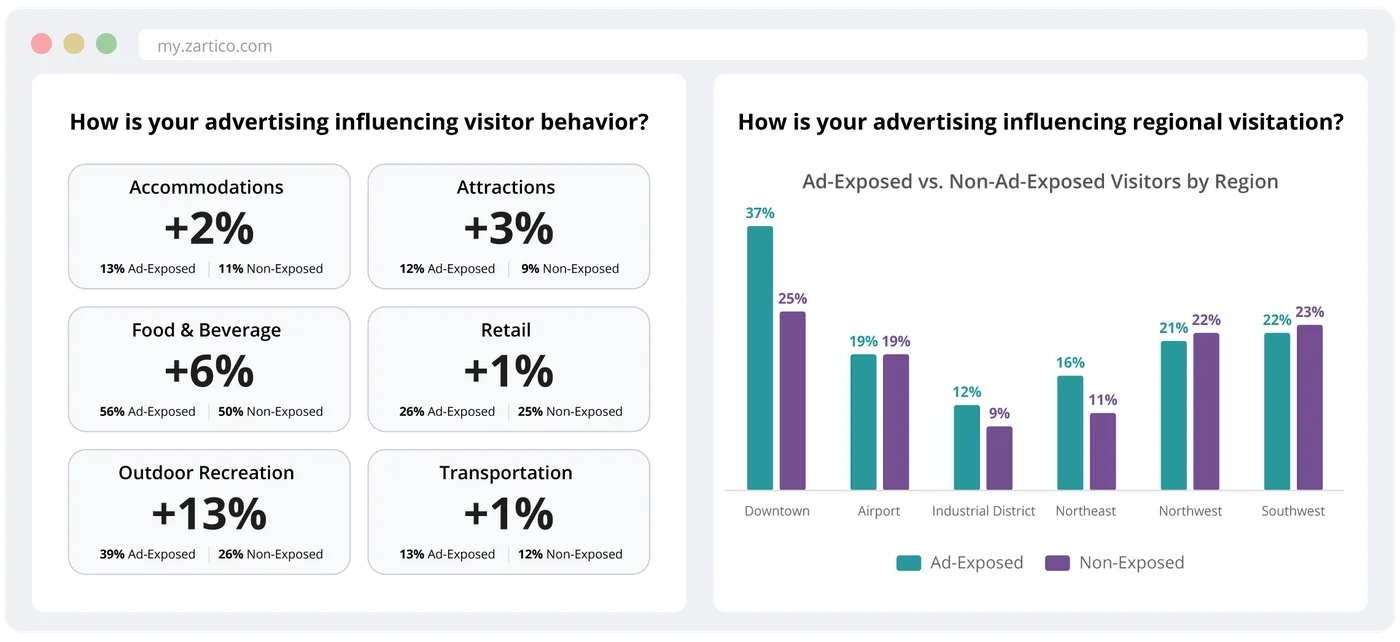
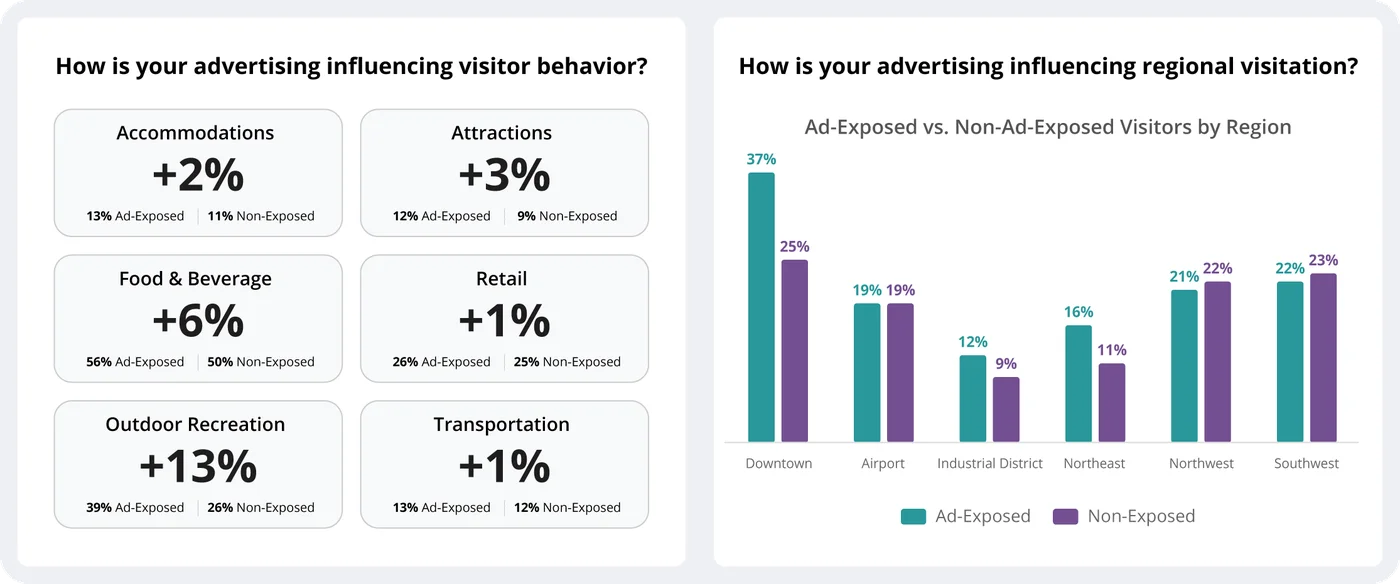
Remove the browser frame from the visitor behavior image so it matches the others
Claude-Session: https://claude.ai/code/session_0159Boi7BcmMUJMtyvy2znsV

diff --git a/index.html b/index.html
@@ -576,7 +576,7 @@ footer .wrap{display:flex;justify-content:space-between;gap:12px;flex-wrap:wrap}
         <h3>Launching new media attribution pipelines</h3>
         <p class="hook">Zartico Media Attribution (ZMA) and Campaign Hub</p>
         <p class="for"><b>Built for:</b> DMOs, state tourism offices, CVBs, and their marketing agencies</p>
-        <div class="shots"><figure><a href="work/zma-international.webp" target="_blank" rel="noopener"><img src="work/zma-international.webp" width="500" height="520" alt="International media attribution report showing exposed visitors and visits by origin country" loading="lazy"></a><figcaption>International attribution, the pipeline I launched. Image: <a href="https://www.zartico.com/media-attribution" target="_blank" rel="noopener">Zartico</a></figcaption></figure><figure><a href="work/zma-dashboard.webp" target="_blank" rel="noopener"><img src="work/zma-dashboard.webp" width="670" height="400" alt="Media attribution dashboard with ad-exposed visitors, conversion rate, and vendor performance" loading="lazy"></a><figcaption>Campaign performance by vendor. Image: Zartico</figcaption></figure><figure><a href="work/zma-visitor-behavior.webp" target="_blank" rel="noopener"><img src="work/zma-visitor-behavior.webp" width="1400" height="642" alt="Comparison of ad-exposed and non-exposed visitor behavior by category and region" loading="lazy"></a><figcaption>How ads change what visitors do and where they go. Image: Zartico</figcaption></figure></div>
+        <div class="shots"><figure><a href="work/zma-international.webp" target="_blank" rel="noopener"><img src="work/zma-international.webp" width="500" height="520" alt="International media attribution report showing exposed visitors and visits by origin country" loading="lazy"></a><figcaption>International attribution, the pipeline I launched. Image: <a href="https://www.zartico.com/media-attribution" target="_blank" rel="noopener">Zartico</a></figcaption></figure><figure><a href="work/zma-dashboard.webp" target="_blank" rel="noopener"><img src="work/zma-dashboard.webp" width="670" height="400" alt="Media attribution dashboard with ad-exposed visitors, conversion rate, and vendor performance" loading="lazy"></a><figcaption>Campaign performance by vendor. Image: Zartico</figcaption></figure><figure><a href="work/zma-visitor-behavior.webp" target="_blank" rel="noopener"><img src="work/zma-visitor-behavior.webp" width="1400" height="584" alt="Comparison of ad-exposed and non-exposed visitor behavior by category and region" loading="lazy"></a><figcaption>How ads change what visitors do and where they go. Image: Zartico</figcaption></figure></div>
         <details>
           <summary>Read more</summary>
           <dl>
